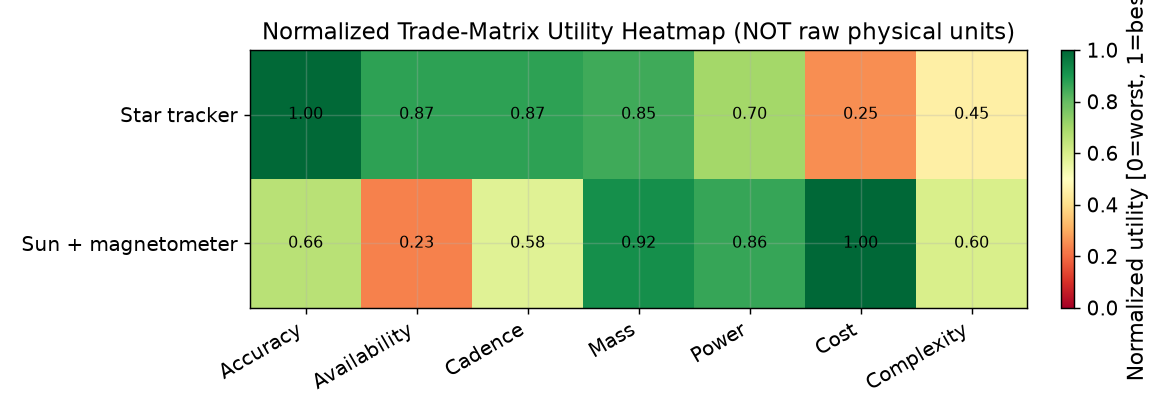
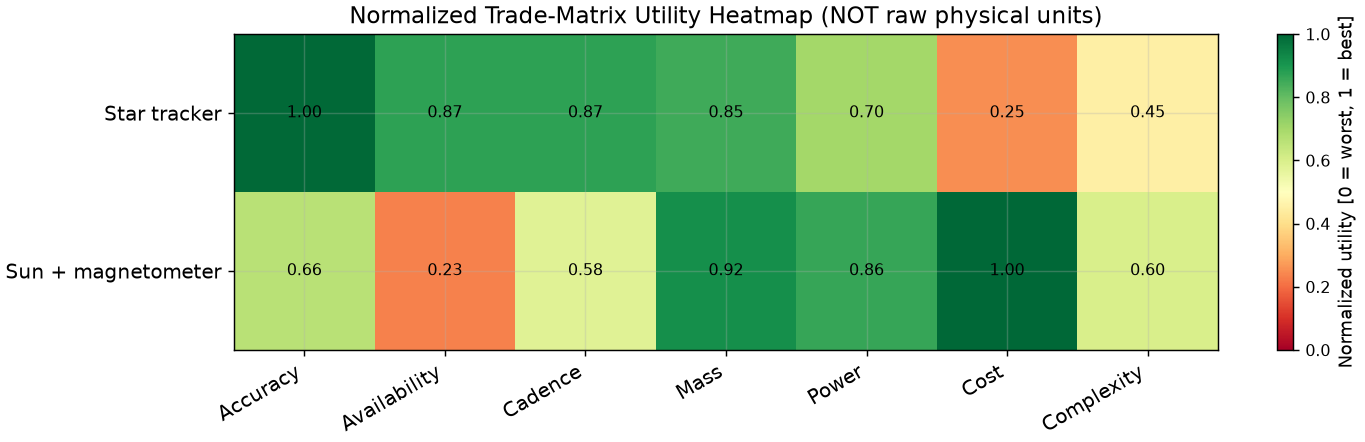
Presentation-only figure/label audit: fix fig10/11/13/15/18 rendering
Cosmetic-only pass over matplotlib plotting code, generated PNGs, and one
README table's labels. No engineering calculation, model, weight,
threshold, normalization rule, or recommendation was touched; all M1/M2/M3
script stdout is byte-identical to the pre-edit baseline and 344/344 tests
still pass.

- fig18_final_recommendation_summary.png (run_trade_study.py): replaced
  the plain wrapped-text dump with a compact, sectioned summary panel
  (Hard requirements / Baseline weighted score / Robustness /
  Recommendation / Conditional caveat), with dividers and color-coded
  PASS/FAIL/WINNER badges that pair color with text/symbols. Tighter
  figure size removes the dead whitespace below the old text box. Every
  number and caveat is preserved exactly.
- fig15_scenario_sensitivity.png: x-axis scenario keys
  (baseline/accuracy_priority/resource_constrained/availability_priority/
  cost_complexity_priority) replaced with human-readable Title Case
  labels. Bar values, grouping, and winner annotations unchanged.
- fig13_normalized_utility_heatmap.png: widened figure and switched to
  constrained_layout so the colorbar label
  "Normalized utility [0 = worst, 1 = best]" is no longer clipped.
  Heatmap values/normalization/color scale unchanged.
- fig10_fov_and_eclipse_sensitivity.png (verify_availability.py): added
  an on-figure annotation on the beta-angle panel pointing at the
  high-beta collapse, clarifying it is Sun-sensor FOV/pointing-geometry
[…]

Changed region(s): [[0.0, 0.0, 1.0, 0.9688], [0.1538, 0.9062, 0.1846, 0.9375]]

diff --git a/scripts/run_trade_study.py b/scripts/run_trade_study.py
@@ -507,7 +507,7 @@ def main() -> None:
     plt.close(fig)
 
     # Figure 13: normalized utility heatmap
-    fig, ax = plt.subplots(figsize=(9, 3.2))
+    fig, ax = plt.subplots(figsize=(10.5, 3.4), constrained_layout=True)
     norm_table = baseline_result.normalized_table.loc[archs, list(CATEGORIES)]
     im = ax.imshow(norm_table.values, cmap="RdYlGn", vmin=0, vmax=1, aspect="auto")
     ax.set_xticks(range(len(CATEGORIES)))
@@ -517,10 +517,10 @@ def main() -> None:
     for i in range(len(archs)):
         for j in range(len(CATEGORIES)):
             ax.text(j, i, f"{norm_table.values[i, j]:.2f}", ha="center", va="center", fontsize=9)
-    cbar = fig.colorbar(im, ax=ax, fraction=0.046, pad=0.04)
-    cbar.set_label("Normalized utility [0=worst, 1=best]")
+    cbar = fig.colorbar(im, ax=ax, fraction=0.046, pad=0.06)
+    cbar.set_label("Normalized utility [0 = worst, 1 = best]", fontsize=10)
+    cbar.ax.tick_params(labelsize=9)
     ax.set_title("Normalized Trade-Matrix Utility Heatmap (NOT raw physical units)")
-    fig.tight_layout()
     fig.savefig(RESULTS_DIR / "fig13_normalized_utility_heatmap.png")
     plt.close(fig)
 
@@ -557,8 +557,18 @@ def main() -> None:
         marker_x = xi - width / 2 if w == "star_tracker" else xi + width / 2
         marker_y = (star_vals[xi] if w == "star_tracker" else sunmag_vals[xi]) + 0.02
         ax.annotate("WINNER", (marker_x, marker_y), ha="center", fontsize=8, fontweight="bold")
+    SCENARIO_DISPLAY_LABELS = {
+        "baseline": "Baseline",
+        "accuracy_priority": "Accuracy priority",
+        "resource_constrained": "Resource constrained",
+        "availability_priority": "Availability priority",
+        "cost_complexity_priority": "Cost / complexity priority",
+    }
     ax.set_xticks(x)
-    ax.set_xticklabels(list(SCENARIOS.keys()), rotation=20, ha="right", fontsize=9)
+    ax.set_xticklabels(
+        [SCENARIO_DISPLAY_LABELS.get(s, s) for s in SCENARIOS],
+        rotation=20, ha="right", fontsize=9,
+    )
     ax.set_ylabel("Total weighted score [-]")
     ax.set_ylim(0, 1.05)
     ax.set_title("Decision Sensitivity Across the 5 Named Weighting Scenarios")
@@ -613,43 +623,129 @@ def main() -> None:
     plt.close(fig)
 
     # Figure 18: final recommendation summary graphic
+    #
+    # Compact, professionally laid-out summary panel: labeled section rows
+    # with dividers instead of a single dumped text block. Every number and
+    # caveat below is identical to the figure this replaces - only the
+    # presentation (layout/typography/badges) changed.
     import textwrap
 
-    fig, ax = plt.subplots(figsize=(11, 6.5))
+    n_sunmag_fail = sum(not v for v in req_results["sun_plus_mag"].values())
+    n_reqs = len(REQUIREMENTS)
+    star_score = baseline_result.totals["star_tracker"]
+    sunmag_score = baseline_result.totals["sun_plus_mag"]
+    winner_label = ARCH_LABELS[baseline_result.winner]
+    pct_star = mc.fraction_favoring_star_tracker * 100
+    pct_sunmag = mc.fraction_favoring_sun_plus_mag * 100
+    robustness_tag = "ROBUST" if robust else "MISSION-PRIORITY-DEPENDENT"
+
+    PASS_COLOR = "#2ca02c"
+    FAIL_COLOR = "#d62728"
+
+    # Layout in physical inches: the axes spans the whole figure and its
+    # data limits are set to the figure's own width/height, so 1 data unit
+    # == 1 inch. This lets each text block's height be computed from its
+    # actual line count/fontsize and the cursor auto-advance accordingly -
+    # avoiding any manually-guessed spacing that could clip content.
+    FIG_W, FIG_H = 10.0, 7.1
+    LEFT, RIGHT = 0.45, FIG_W - 0.45
+
+    fig = plt.figure(figsize=(FIG_W, FIG_H))
+    ax = fig.add_axes((0, 0, 1, 1))
     ax.axis("off")
-    wrap_width = 78
-    raw_lines = [
-        "MILESTONE 3 FINAL RECOMMENDATION SUMMARY",
-        "",
-        f"Hard requirements: Star tracker PASSES all {len(REQUIREMENTS)}; "
-        f"Sun+mag FAILS {sum(not v for v in req_results['sun_plus_mag'].values())} of {len(REQUIREMENTS)}.",
-        f"Baseline weighted score: Star tracker {baseline_result.totals['star_tracker']:.3f} "
-        f"vs. Sun+mag {baseline_result.totals['sun_plus_mag']:.3f} -> "
-        f"WINNER: {ARCH_LABELS[baseline_result.winner]}.",
-        f"Named-scenario flips: {n_flips} of 4 alternative priority scenarios flip the decision.",
-        f"Monte Carlo weight-space split: "
-        f"{mc.fraction_favoring_star_tracker*100:.1f}% star tracker / "
-        f"{mc.fraction_favoring_sun_plus_mag*100:.1f}% Sun+mag "
-        f"({'ROBUST' if robust else 'MISSION-PRIORITY-DEPENDENT'}).",
-        "",
-        "RECOMMENDATION: for baseline (balanced) mission priorities, select the "
-        "STAR TRACKER, driven primarily by operational availability/continuity, "
-        "not raw accuracy alone.",
-        "CONDITIONAL CAVEAT: the recommendation flips to the Sun sensor + "
-        "magnetometer suite under a genuinely mass/power-constrained or "
-        "cost/complexity-constrained mission priority set.",
-    ]
-    wrapped_blocks = []
-    for line_txt in raw_lines:
-        if line_txt == "":
-            wrapped_blocks.append("")
-        else:
-            wrapped_blocks.append("\n".join(textwrap.wrap(line_txt, width=wrap_width)))
-    full_text = "\n\n".join(wrapped_blocks)
-    ax.text(0.03, 0.97, full_text, transform=ax.transAxes, fontsize=11.5,
-            va="top", ha="left", family="monospace", wrap=False,
-            bbox=dict(boxstyle="round", facecolor="#f5f5f5", edgecolor="black"))
-    fig.tight_layout()
+    ax.set_xlim(0, FIG_W)
+    ax.set_ylim(0, FIG_H)
+
+    LINE_SPACING = 1.45
+
+    def text_height(text, fontsize):
+        n_lines = text.count("\n") + 1
+        return n_lines * fontsize * LINE_SPACING / 72.0
+
+    def draw(cy, x, text, fontsize, ha="left", **kwargs):
+        """Draw text with top-left anchor at (x, cy); return new cursor y."""
+        ax.text(x, cy, text, fontsize=fontsize, va="top", ha=ha, **kwargs)
+        return cy - text_height(text, fontsize)
+
+    def hline(cy, lw=1.0, color="#999999", gap_before=0.08, gap_after=0.14):
+        cy -= gap_before
+        ax.plot([LEFT, RIGHT], [cy, cy], color=color, lw=lw)
+        return cy - gap_after
+
+    def section_header(cy, text):
+        return draw(cy, LEFT, text, 13, fontweight="bold", color="#222222")
+
+    def body_line(cy, text, fontsize=10.5, wrap=95, **kwargs):
+        wrapped = "\n".join(textwrap.wrap(text, width=wrap)) if wrap else text
+        return draw(cy, LEFT + 0.15, wrapped, fontsize, color="#222222", **kwargs)
+
+    def badge(cy, x, text, color, fontsize=10.5, ha="left"):
+        ax.text(x, cy, text, fontsize=fontsize, fontweight="bold", va="top", ha=ha,
+                color="white", bbox=dict(boxstyle="round,pad=0.35", facecolor=color, edgecolor="none"))
+        return cy - text_height(text, fontsize) * 1.5
+
+    # --- Title -------------------------------------------------------
+    cy = FIG_H - 0.4
+    cy = draw(cy, FIG_W / 2, "MILESTONE 3 FINAL RECOMMENDATION SUMMARY", 16,
+              ha="center", fontweight="bold", color="#111111")
+    cy -= 0.05
+    cy = draw(cy, FIG_W / 2,
+              "ADCS Sensor Suite Trade Study — Star Tracker vs. Sun Sensor + Magnetometer",
+              10.5, ha="center", color="#555555", style="italic")
+    cy = hline(cy, lw=1.6, color="#333333", gap_before=0.15, gap_after=0.28)
+
+    # --- Section 1: Hard requirements --------------------------------
+    cy = section_header(cy, "1. HARD REQUIREMENTS")
+    cy -= 0.10
+    badge(cy, LEFT + 0.15, f"✓ PASS — ALL {n_reqs}", PASS_COLOR)
+    cy = draw(cy, LEFT + 2.35, f"Star tracker passes all {n_reqs} representative hard requirements.", 10.5)
+    cy -= 0.14
+    badge(cy, LEFT + 0.15, f"✗ FAIL — {n_sunmag_fail} of {n_reqs}", FAIL_COLOR)
+    cy = draw(cy, LEFT + 2.35,
+              f"Sun+mag fails {n_sunmag_fail} of {n_reqs} representative hard requirements.", 10.5)
+    cy = hline(cy)
+
+    # --- Section 2: Baseline weighted score ---------------------------
+    cy = section_header(cy, "2. BASELINE WEIGHTED SCORE")
+    cy -= 0.10
+    row_cy = cy
+    draw(row_cy, LEFT + 0.15, "Star tracker", 10.5, fontweight="bold", color=STAR_COLOR)
+    draw(row_cy, LEFT + 2.0, f"{star_score:.3f}", 10.5)
+    draw(row_cy, LEFT + 3.3, "Sun + magnetometer", 10.5, fontweight="bold", color=SUNMAG_COLOR)
+    cy = draw(row_cy, LEFT + 5.7, f"{sunmag_score:.3f}", 10.5)
+    cy -= 0.14
+    badge(cy, LEFT + 0.15, f"WINNER: {winner_label.upper()}", ARCH_COLORS[baseline_result.winner])
+    cy -= 0.32
+    cy = hline(cy)
+
+    # --- Section 3: Robustness ----------------------------------------
+    cy = section_header(cy, "3. ROBUSTNESS")
+    cy -= 0.10
+    cy = body_line(cy, f"Named-scenario flips: {n_flips} of 4 alternative priority "
+                       "scenarios flip the decision.")
+    cy -= 0.05
+    cy = body_line(cy, f"Monte Carlo weight-space split (n={mc.n_samples}): "
+                       f"{pct_star:.1f}% favor star tracker / {pct_sunmag:.1f}% favor Sun+mag.")
+    cy -= 0.14
+    badge(cy, LEFT + 0.15, robustness_tag, "#555555" if not robust else PASS_COLOR)
+    cy -= 0.32
+    cy = hline(cy)
+
+    # --- Section 4: Recommendation -------------------------------------
+    cy = section_header(cy, "4. RECOMMENDATION")
+    cy -= 0.10
+    cy = body_line(cy, "For baseline (balanced) mission priorities, select the STAR TRACKER, "
+                       "driven primarily by operational availability/continuity, not raw "
+                       "accuracy alone.", fontsize=11.5, fontweight="bold")
+    cy = hline(cy)
+
+    # --- Section 5: Conditional caveat ----------------------------------
+    cy = section_header(cy, "5. CONDITIONAL CAVEAT")
+    cy -= 0.10
+    cy = body_line(cy, "The recommendation flips to the Sun sensor + magnetometer suite "
+                       "under a genuinely mass/power-constrained or cost/complexity-constrained "
+                       "mission priority set.")
+
     fig.savefig(RESULTS_DIR / "fig18_final_recommendation_summary.png")
     plt.close(fig)
 

diff --git a/scripts/verify_availability.py b/scripts/verify_availability.py
@@ -539,6 +539,20 @@ def main() -> None:
     axE.set_ylabel("Percent of orbit [%]")
     axE.set_title("Sensitivity to Beta Angle (Eclipse Geometry)")
     axE.legend(fontsize=8)
+    # Explicit callout: the high-beta collapse of Sun+mag availability (seen
+    # here between beta ~50-60 deg, where it drops to 0%) is driven by
+    # Sun-sensor FOV / nadir-pointing body geometry coupling, NOT by eclipse
+    # (which is still >0% at that point) - see docs/availability_methodology.md.
+    axE.annotate(
+        "Sun+mag collapse here is FOV/pointing-geometry\n"
+        "driven, NOT eclipse-driven (eclipse is still >0%\n"
+        "at this beta) - see availability_methodology.md",
+        xy=(60.0, 0.0), xycoords="data",
+        xytext=(28.0, 27.0), textcoords="data",
+        fontsize=7.8, ha="left", va="center",
+        arrowprops=dict(arrowstyle="->", color="black", lw=1.2),
+        bbox=dict(boxstyle="round", facecolor="#fff8dc", edgecolor="black", alpha=0.95),
+    )
     fig.tight_layout()
     fig.savefig(RESULTS_DIR / "fig10_fov_and_eclipse_sensitivity.png")
     plt.close(fig)
@@ -555,7 +569,7 @@ def main() -> None:
     ax.plot(mag_rows["rate_hz"], mag_rows["updates_per_orbit"], color=MAG_COLOR, marker="^", lw=2,
             label="Magnetometer rate (Sun+mag) - essentially flat")
     ax.set_xlabel("Sensor update rate [Hz]")
-    ax.set_ylabel("Usable full-attitude updates / orbit [-]")
+    ax.set_ylabel("Usable full-attitude updates per orbit")
     ax.set_title("Usable Full-Attitude Update Cadence vs. Sensor Update Rate")
     ax.legend(fontsize=8)
     fig.tight_layout()

diff --git a/README.md b/README.md
@@ -139,11 +139,11 @@ separate lump number):
 
 | Weighting scenario | Star tracker score | Sun+mag score | Winner |
 |---|---|---|---|
-| baseline | 0.7636 | 0.6635 | Star tracker |
-| accuracy_priority | 0.8564 | 0.6490 | Star tracker |
-| resource_constrained | 0.7730 | 0.7773 | **Sun+mag (flips)** |
-| availability_priority | 0.7872 | 0.5610 | Star tracker |
-| cost_complexity_priority | 0.5730 | 0.7462 | **Sun+mag (flips)** |
+| Baseline | 0.7636 | 0.6635 | Star tracker |
+| Accuracy priority | 0.8564 | 0.6490 | Star tracker |
+| Resource constrained | 0.7730 | 0.7773 | **Sun+mag (flips)** |
+| Availability priority | 0.7872 | 0.5610 | Star tracker |
+| Cost / complexity priority | 0.5730 | 0.7462 | **Sun+mag (flips)** |
 
 **2 of the 4** non-baseline named scenarios flip the recommendation.
 A Monte Carlo sweep of 20,000 weight vectors sampled uniformly over the
